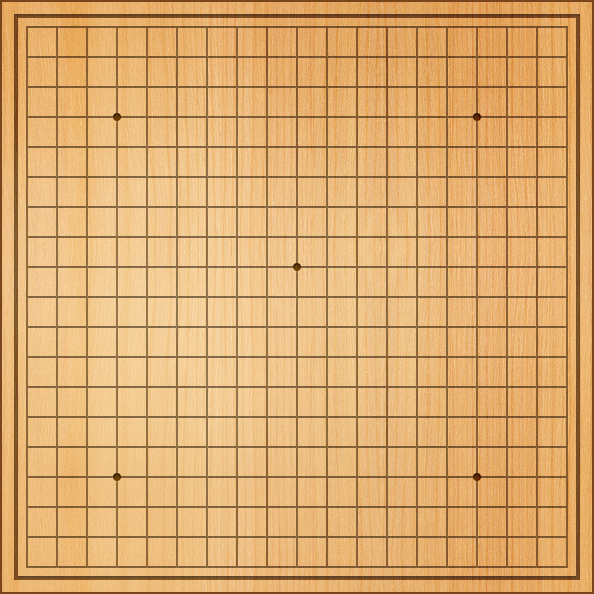
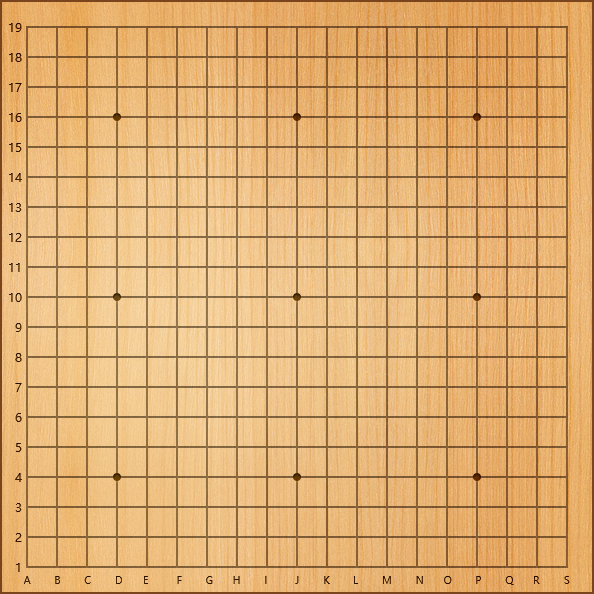
双方走子
双方走子

diff --git a/bin-debug/component/GameMenu.js b/bin-debug/component/GameMenu.js
@@ -20,7 +20,7 @@ var GameMenu = (function (_super) {
         var stageH = stage.stageHeight;
         var menuY;
         //结束
-        var jieShu = GosCommon.createBitmapByNameAndPosition("btn_end_black_png", { x: (stageW - 594) / 2 - 80, y: (stageH - 594) / 2 - 20 - 64 });
+        var jieShu = GosCommon.createBitmapByNameAndPosition("btn_end_black_png", { x: (stageW - 594) / 2 - 55, y: (stageH - 594) / 2 - 20 - 64 });
         _this.btnJieShu = jieShu;
         jieShu.touchEnabled = true;
         menuY = jieShu.y;
@@ -32,7 +32,7 @@ var GameMenu = (function (_super) {
         }, self);
         _this.addChild(jieShu);
         //停一手
-        var tingYiShou = GosCommon.createBitmapByNameAndPosition("btn_stop_black_png", { x: jieShu.x + 10 + jieShu.width, y: menuY });
+        var tingYiShou = GosCommon.createBitmapByNameAndPosition("btn_stop_black_png", { x: jieShu.x + 40 + jieShu.width, y: menuY });
         _this.btnTingYiShou = tingYiShou;
         tingYiShou.touchEnabled = true;
         tingYiShou.addEventListener(egret.TouchEvent.TOUCH_TAP, function () {
@@ -40,7 +40,7 @@ var GameMenu = (function (_super) {
         }, self);
         _this.addChild(tingYiShou);
         //点目
-        var dianMu = GosCommon.createBitmapByNameAndPosition("btn_dianbu_black_png", { x: tingYiShou.x + 10 + tingYiShou.width, y: menuY });
+        var dianMu = GosCommon.createBitmapByNameAndPosition("btn_dianbu_black_png", { x: tingYiShou.x + 40 + tingYiShou.width, y: menuY });
         _this.btnDianMu = dianMu;
         dianMu.touchEnabled = true;
         dianMu.addEventListener(egret.TouchEvent.TOUCH_TAP, function () {
@@ -49,7 +49,7 @@ var GameMenu = (function (_super) {
         }, self);
         _this.addChild(dianMu);
         //标记
-        var biaoJi = GosCommon.createBitmapByNameAndPosition("btn_biaoji_black_png", { x: dianMu.x + 10 + dianMu.width, y: menuY });
+        var biaoJi = GosCommon.createBitmapByNameAndPosition("btn_biaoji_black_png", { x: dianMu.x + 40 + dianMu.width, y: menuY });
         _this.btnBiaoji = biaoJi;
         biaoJi.touchEnabled = true;
         biaoJi.addEventListener(egret.TouchEvent.TOUCH_TAP, function () {
@@ -57,19 +57,19 @@ var GameMenu = (function (_super) {
         }, self);
         _this.addChild(biaoJi);
         //形式
-        var xingShi = GosCommon.createBitmapByNameAndPosition("btn_xingshi_black_png", { x: biaoJi.x + 10 + biaoJi.width, y: menuY });
-        _this.btnXingShi = xingShi;
-        xingShi.touchEnabled = true;
-        xingShi.addEventListener(egret.TouchEvent.TOUCH_TAP, function () {
-            //alert("按钮:形式");
-        }, self);
-        _this.addChild(xingShi);
+        /*  let xingShi = GosCommon.createBitmapByNameAndPosition("btn_xingshi_black_png", { x: biaoJi.x + 10 + biaoJi.width, y: menuY });
+          this.btnXingShi = xingShi;
+          xingShi.touchEnabled = true;
+          xingShi.addEventListener(egret.TouchEvent.TOUCH_TAP, function () {
+              //alert("按钮:形式");
+          }, self);
+          this.addChild(xingShi);*/
         var luozi = new Button(GosCommon.createBitmapByName("luozi_png").texture);
         luozi.x = 280;
         luozi.y = 630;
         _this.luozi = luozi;
         luozi.addEventListener(egret.TouchEvent.TOUCH_TAP, function () {
-            EventManager.publish('ChessBoard/setGos');
+            EventManager.publish('ChessBoard/setGos', undefined, undefined, undefined, 0);
         }, _this);
         _this.addChild(_this.luozi);
         //self.visible = false;

diff --git a/src/component/GameMenu.ts b/src/component/GameMenu.ts
@@ -19,7 +19,7 @@ class GameMenu extends egret.DisplayObjectContainer {
 
         let menuY: number;
         //结束
-        let jieShu = GosCommon.createBitmapByNameAndPosition("btn_end_black_png", { x: (stageW - 594) / 2 - 80, y: (stageH - 594) / 2 - 20 - 64 });
+        let jieShu = GosCommon.createBitmapByNameAndPosition("btn_end_black_png", { x: (stageW - 594) / 2 - 55, y: (stageH - 594) / 2 - 20 - 64 });
         this.btnJieShu = jieShu;
         jieShu.touchEnabled = true;
         menuY = jieShu.y;
@@ -32,7 +32,7 @@ class GameMenu extends egret.DisplayObjectContainer {
         this.addChild(jieShu);
 
         //停一手
-        let tingYiShou = GosCommon.createBitmapByNameAndPosition("btn_stop_black_png", { x: jieShu.x + 10 + jieShu.width, y: menuY });
+        let tingYiShou = GosCommon.createBitmapByNameAndPosition("btn_stop_black_png", { x: jieShu.x + 40 + jieShu.width, y: menuY });
         this.btnTingYiShou = tingYiShou;
         tingYiShou.touchEnabled = true;
         tingYiShou.addEventListener(egret.TouchEvent.TOUCH_TAP, function () {
@@ -41,7 +41,7 @@ class GameMenu extends egret.DisplayObjectContainer {
         this.addChild(tingYiShou);
 
         //点目
-        let dianMu = GosCommon.createBitmapByNameAndPosition("btn_dianbu_black_png", { x: tingYiShou.x + 10 + tingYiShou.width, y: menuY });
+        let dianMu = GosCommon.createBitmapByNameAndPosition("btn_dianbu_black_png", { x: tingYiShou.x + 40 + tingYiShou.width, y: menuY });
         this.btnDianMu = dianMu;
         dianMu.touchEnabled = true;
         dianMu.addEventListener(egret.TouchEvent.TOUCH_TAP, function () {
@@ -51,7 +51,7 @@ class GameMenu extends egret.DisplayObjectContainer {
         this.addChild(dianMu);
 
         //标记
-        let biaoJi = GosCommon.createBitmapByNameAndPosition("btn_biaoji_black_png", { x: dianMu.x + 10 + dianMu.width, y: menuY });
+        let biaoJi = GosCommon.createBitmapByNameAndPosition("btn_biaoji_black_png", { x: dianMu.x + 40 + dianMu.width, y: menuY });
         this.btnBiaoji = biaoJi;
         biaoJi.touchEnabled = true;
         biaoJi.addEventListener(egret.TouchEvent.TOUCH_TAP, function () {
@@ -60,20 +60,20 @@ class GameMenu extends egret.DisplayObjectContainer {
         this.addChild(biaoJi);
 
         //形式
-        let xingShi = GosCommon.createBitmapByNameAndPosition("btn_xingshi_black_png", { x: biaoJi.x + 10 + biaoJi.width, y: menuY });
-        this.btnXingShi = xingShi;
-        xingShi.touchEnabled = true;
-        xingShi.addEventListener(egret.TouchEvent.TOUCH_TAP, function () {
-            //alert("按钮:形式");
-        }, self);
-        this.addChild(xingShi);
+        /*  let xingShi = GosCommon.createBitmapByNameAndPosition("btn_xingshi_black_png", { x: biaoJi.x + 10 + biaoJi.width, y: menuY });
+          this.btnXingShi = xingShi;
+          xingShi.touchEnabled = true;
+          xingShi.addEventListener(egret.TouchEvent.TOUCH_TAP, function () {
+              //alert("按钮:形式");
+          }, self);
+          this.addChild(xingShi);*/
 
         let luozi = new Button(GosCommon.createBitmapByName("luozi_png").texture);
         luozi.x = 280;
         luozi.y = 630;
         this.luozi = luozi;
         luozi.addEventListener(egret.TouchEvent.TOUCH_TAP, function () {
-            EventManager.publish('ChessBoard/setGos');
+            EventManager.publish('ChessBoard/setGos', undefined, undefined, undefined, 0);
         }, this);
         this.addChild(this.luozi);
 

diff --git a/bin-debug/component/ChessBoard.js b/bin-debug/component/ChessBoard.js
@@ -76,7 +76,7 @@ var ChessBoard = (function (_super) {
              self.aRecord.push(o);*/
         });
         //走子  并落下
-        EventManager.subscribe('ChessBoard/setGos', function (chessType, numX, numY) {
+        EventManager.subscribe('ChessBoard/setGos', function (chessType, numX, numY, playerType) {
             //alert(chessType);
             if (chessType == undefined) {
                 chessType = self.nSelfColor;
@@ -87,7 +87,7 @@ var ChessBoard = (function (_super) {
             if (numY == undefined) {
                 numY = self.numY;
             }
-            self.addChess(chessType, numX, numY);
+            self.addChess(chessType, numX, numY, playerType);
         });
         EventManager.subscribe("ChessBoard/setAvail", function (isAvail) {
             self.setAvailSetGos(isAvail);
@@ -200,7 +200,11 @@ var ChessBoard = (function (_super) {
         this.lightY.visible = false;
     };
     //落子
-    ChessBoard.prototype.addChess = function (chessType, numX, numY) {
+    /**
+     * playerType 己方还是对方     0 己方  1 他方
+     */
+    ChessBoard.prototype.addChess = function (chessType, numX, numY, playerType) {
+        //alert(numX + "****" + numY);
         //alert(chessType);
         var chessResName = chessType == 0 ? "chess_black_small_png" : "chess_white_small_png";
         var chess = GosCommon.createBitmapByName(chessResName);
@@ -213,11 +217,17 @@ var ChessBoard = (function (_super) {
         chess.alpha = 0;
         egret.Tween.get(chess).to({ alpha: 1, scaleX: 1, scaleY: 1 }, 1000);
         this.chessList.addChild(chess);
-        this.setAvailSetGos(false);
-        EventManager.publish("GameScene/hideConfirmLuoZi");
-        EventManager.publish("ChessBoard/hideLight");
-        var content = "play " + (chessType == 0 ? "black" : "white") + " h5";
-        EventManager.publish("GameScene/confirmLuoZi", localStorage.getItem("game_id"), 1, content, 10700);
+        if (playerType == 0) {
+            this.setAvailSetGos(false);
+            EventManager.publish("GameScene/hideConfirmLuoZi");
+            EventManager.publish("ChessBoard/hideLight");
+            var wX = Utility.getWordByNum(numX);
+            var content = "play " + (chessType == 0 ? "black" : "white") + (" " + wX + (19 - numY));
+            EventManager.publish("GameScene/confirmLuoZi", localStorage.getItem("game_id"), 1, content, 10700);
+        }
+        else {
+            this.setAvailSetGos(true);
+        }
     };
     return ChessBoard;
 }(egret.DisplayObjectContainer));

diff --git a/src/component/ChessBoard.ts b/src/component/ChessBoard.ts
@@ -116,7 +116,7 @@ class ChessBoard extends egret.DisplayObjectContainer {
         });
 
         //走子  并落下
-        EventManager.subscribe('ChessBoard/setGos', function (chessType, numX, numY) {
+        EventManager.subscribe('ChessBoard/setGos', function (chessType, numX, numY, playerType) {
             //alert(chessType);
             if (chessType == undefined) {
                 chessType = self.nSelfColor;
@@ -127,7 +127,7 @@ class ChessBoard extends egret.DisplayObjectContainer {
             if (numY == undefined) {
                 numY = self.numY;
             }
-            self.addChess(chessType, numX, numY);
+            self.addChess(chessType, numX, numY, playerType);
         });
 
         EventManager.subscribe("ChessBoard/setAvail", function (isAvail) {
@@ -252,7 +252,11 @@ class ChessBoard extends egret.DisplayObjectContainer {
     }
 
     //落子
-    private addChess(chessType: number, numX: number, numY: number) {
+    /**
+     * playerType 己方还是对方     0 己方  1 他方
+     */
+    private addChess(chessType: number, numX: number, numY: number, playerType: number) {
+        //alert(numX + "****" + numY);
         //alert(chessType);
         let chessResName = chessType == 0 ? "chess_black_small_png" : "chess_white_small_png";
         let chess: egret.Bitmap = GosCommon.createBitmapByName(chessResName);
@@ -267,11 +271,17 @@ class ChessBoard extends egret.DisplayObjectContainer {
         egret.Tween.get(chess).to({ alpha: 1, scaleX: 1, scaleY: 1 }, 1000);
 
         this.chessList.addChild(chess);
-        this.setAvailSetGos(false);
-        EventManager.publish("GameScene/hideConfirmLuoZi");
-        EventManager.publish("ChessBoard/hideLight");
-        let content = "play " + (chessType == 0 ? "black" : "white") + " h5";
-        EventManager.publish("GameScene/confirmLuoZi", localStorage.getItem("game_id"), 1, content, 10700);
+        if (playerType == 0) {
+            this.setAvailSetGos(false);
+            EventManager.publish("GameScene/hideConfirmLuoZi");
+            EventManager.publish("ChessBoard/hideLight");
+            let wX = Utility.getWordByNum(numX);
+            let content = "play " + (chessType == 0 ? "black" : "white") + ` ${wX}${19 - numY}`;
+            EventManager.publish("GameScene/confirmLuoZi", localStorage.getItem("game_id"), 1, content, 10700);
+        } else {
+            this.setAvailSetGos(true);
+        }
+
     }
 
 

diff --git a/libs/net/connection.js b/libs/net/connection.js
@@ -75,9 +75,36 @@ var wsConnection = {
                 }
             } else if (op == 2015) {
                 //开始游戏
+                var selfPlayer = new Object();
+                var playerArr = data["GAME_START_REP"]["gameInfo"].player;
+                if (playerArr instanceof Array && playerArr.length == 2) {
+                    for (var i = 0; i < 2; i++) {
+                        if (playerArr[i].id == selfPlayerId) {
+                            selfPlayer = playerArr[i];
+                            break;
+                        }
+                    }
+                }
                 EventManager.publish("ChessBoard/setAvail", true);
                 //var gameId = localStorage.getItem("game_id");
-               // EventManager.publish("GameScene/confirmLuoZi", gameId);
+                // EventManager.publish("GameScene/confirmLuoZi", gameId);
+            } else if (op == 2101) {
+                //对方
+                var request_id = data["request_id"];
+                var player_id = data["player_id"];
+                var local_player_id = localStorage.getItem("player_id");
+                // if(request_id!=localStorage.getItem["last_luozi_request_id"])
+                var content = data["MOVE_REP"]["content"];
+                var oppColor = content.split(" ")[1] == "black" ? 0 : 1;
+                var x = content.split(" ")[2].substring(0, 1);
+                var y = content.split(" ")[2].substring(1);
+                //alert(x);
+                var numX = Utility.getNumx(x);
+               // alert(numX);
+                var numY = Utility.getNumY(y);
+                if (local_player_id != player_id) {
+                    EventManager.publish('ChessBoard/setGos', oppColor, numX, numY, 1);
+                }
             }
         } else {
             //返回失败

diff --git a/libs/common/utility.js b/libs/common/utility.js
@@ -14,5 +14,30 @@ var Utility = {
     getRequestId: function () {
         var requestId = this.getTimestamp() + this.getRandomWord();
         return requestId;
+    },
+    /**
+     * 根据数字获取对应的棋盘X  a-s
+     */
+    getNumx: function (w) {
+        var x;
+        var cbX = ["a", "b", "c", "d", "e", "f", "g", "h", "j", "k", "l", "m", "n", "o", "p", "q", "r", "s", "t"];
+        for (var i = 0; i < cbX.length; i++) {
+            if (cbX[i] == w) {
+                x = i;
+                break;
+            }
+        }
+        return x;
+    },
+    /**
+     * 根据字母获取对应的棋盘Y 1-19
+     */
+    getNumY: function (w) {
+        return 19 - w;
+        //alert(parseInt(w));
+    },
+    getWordByNum: function (num) {
+        var cbX = ["a", "b", "c", "d", "e", "f", "g", "h", "j", "k", "l", "m", "n", "o", "p", "q", "r", "s", "t"];
+        return cbX[num];
     }
 };

diff --git a/libs/net/NetController.js b/libs/net/NetController.js
@@ -8,6 +8,7 @@ var NetController = {
         var self = this;
 
         /**
+         * 请求服务端落子
          * game_id:游戏id
          * step:步数
          * content:"play black e1"
@@ -24,6 +25,9 @@ var NetController = {
                 time: 10780
             };
             TSDT[2100].game_id = game_id;
+            //localStorage.removeItem("")
+            //记录上手落子request_id
+            localStorage.setItem("last_luozi_request_id", TSDT[2100].request_id);
             wsConnection.sendMsg(TSDT[2100]);
         });
 

diff --git a/libs/common/login.js b/libs/common/login.js
@@ -81,7 +81,7 @@
             EventManager.publish("GameScene/opPing");
             //var hex = "e6a38be58f8b";
             //var cv = hex.fromCharCode(hex);
-          //  alert(cv)
+            //  alert(cv)
             //alert(this.NickName);
         },
         loginCB: function (data) {

diff --git a/libs/common/utility.d.ts b/libs/common/utility.d.ts
@@ -1,0 +1,8 @@
+declare module Utility {
+    function getTimestamp(): any;
+    function getRandomWord(): any;
+    function getRequestId(): any;
+    function getNumx(w: any): any;
+    function getNumY(w: any): any;
+    function getWordByNum(num: number): any;
+}
